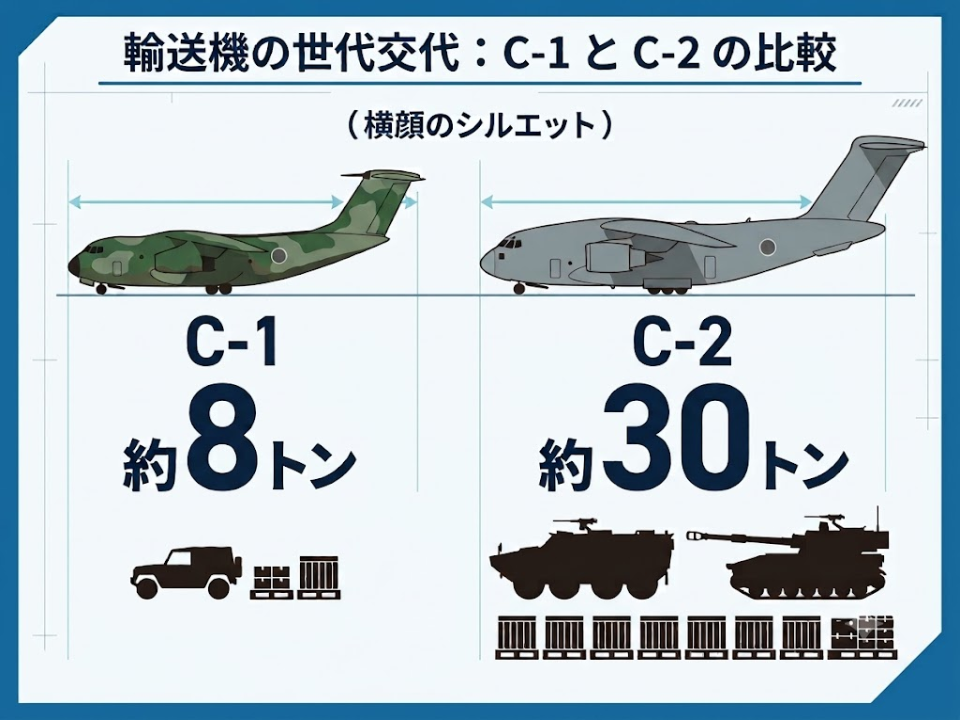
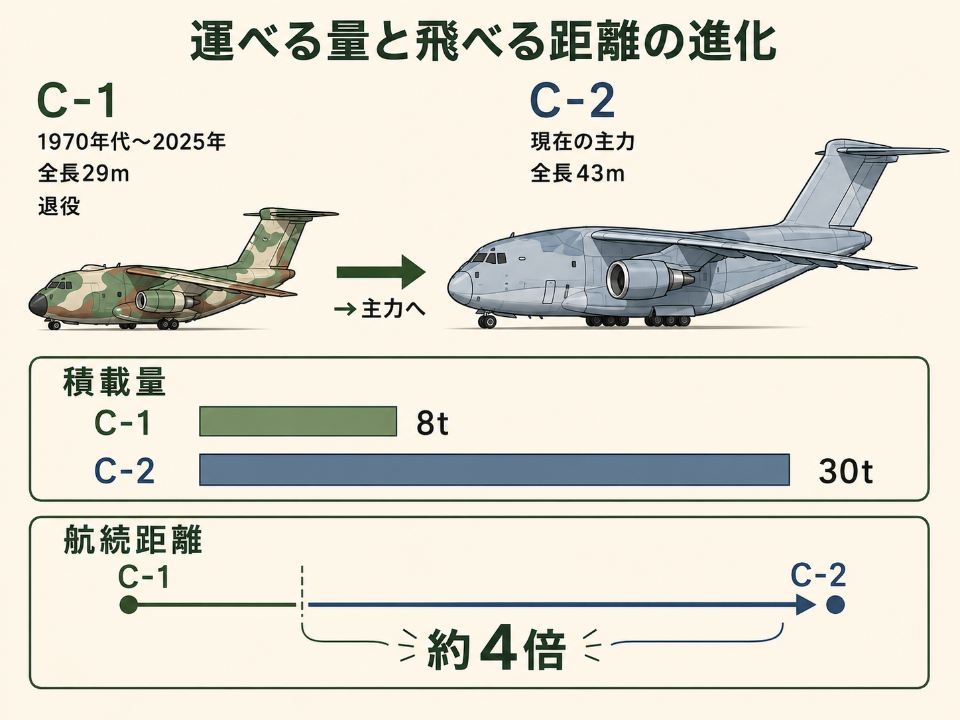
ps

diff --git a/staging/BarSophie_TEST/js/app_m.js b/staging/BarSophie_TEST/js/app_m.js
@@ -619,14 +619,28 @@ function _showMusicSubmenu() {
                     <img src="./sophie_face.png" style="width:20px;height:20px;border-radius:50%;object-fit:cover;">
                     🎵 DJソフィー／音楽リクエスト
                 </div>
-                <div style="padding:10px; display:flex; flex-direction:column; gap:8px;">
-                    <button class="act-btn" id="ms-dj"
-                            style="background:#1a1a2e; border:1.5px solid #ff69b4; color:#ff69b4;">
-                        🎙️ DJソフィーの歌とお酒の物語
-                    </button>
-                    <button class="act-btn" id="ms-music" style="background:var(--green);">
-                        🎵 音楽リクエスト
-                    </button>
+                <div style="padding:10px; display:flex; flex-direction:column; gap:18px;">
+                    <div>
+                        <button class="act-btn" id="ms-dj"
+                                style="background:#1a1a2e; border:1.5px solid #ff69b4; color:#ff69b4;">
+                            🎙️ DJソフィーの歌とお酒の物語
+                        </button>
+                        <p style="margin:7px 4px 0; font-size:0.72rem; line-height:1.5;
+                                  text-align:center; color:#a8eaf4;">
+                            ソフィーがお話をしながら、YouTubeで歌をお届けします。<br>
+                            昭和の名曲にまつわる人生や時代のお話も。
+                        </p>
+                    </div>
+                    <div>
+                        <button class="act-btn" id="ms-music" style="background:var(--green);">
+                            🎵 音楽リクエスト
+                        </button>
+                        <p style="margin:7px 4px 0; font-size:0.72rem; line-height:1.5;
+                                  text-align:center; color:#ffcdd9;">
+                            昭和の名曲を中心に600曲以上を収録しています。<br>
+                            歌手別・ジャンル別でお好みの一曲をどうぞ。
+                        </p>
+                    </div>
                 </div>
             </div>`;
     }

diff --git a/staging/TAKERU/editor/public/app.js b/staging/TAKERU/editor/public/app.js
@@ -196,6 +196,18 @@ function applyEdit(){
 
 function cancelEdit(){ if(selectedIdx>=0) showCard(selectedIdx); }
 
+function copyCardText(){
+  if(selectedIdx<0) return;
+  const card=cardData[selectedIdx];
+  const text=`**カードコード**：【${card.id}】\n\n**カードタイトル**：【${card.title}】\n\n**解説文**： 【${card.body}】`;
+  navigator.clipboard.writeText(text).then(()=>{
+    const btn=document.querySelector('.btn-copy');
+    const orig=btn.textContent;
+    btn.textContent='✅ コピー済み';
+    setTimeout(()=>btn.textContent=orig,2000);
+  }).catch(()=>alert('コピーに失敗しました'));
+}
+
 // ===== 画像取り込み（960×720へ強制伸縮 → SVG合成 → PNG保存） =====
 let pendingImagePng=null, baseImage=null, svgInputTimer=null;
 

diff --git a/staging/TAKERU/editor/public/index.html b/staging/TAKERU/editor/public/index.html
@@ -62,6 +62,7 @@
       <textarea class="edit-input" id="editBody" oninput="updatePreview();countChars()"></textarea>
     </div>
     <div class="edit-actions">
+      <button class="btn-copy" onclick="copyCardText()" title="コード・タイトル・本文をコピー">📋 コピー</button>
       <button class="btn-cancel" onclick="cancelEdit()">キャンセル</button>
       <button class="btn-apply" onclick="applyEdit()">✓ 適用</button>
     </div>
@@ -75,6 +76,10 @@
       <canvas id="imgCanvas" width="960" height="720" style="display:none"></canvas>
       <div id="imgStage" style="display:none; margin-top:8px;">
         <img id="imgPreview" class="img-stage-preview">
+        <div class="edit-actions" style="margin-top:6px;">
+          <button class="btn-cancel" onclick="cancelImage()">取消</button>
+          <button class="btn-apply" id="btnSaveImg" onclick="saveImage()">💾 画像を保存</button>
+        </div>
         <div class="svg-overlay-block">
           <div class="edit-label">SVGオーバーレイ（空欄なら合成なし）</div>
           <textarea id="svgOverlayInput" class="edit-input svg-overlay-input"
@@ -83,10 +88,6 @@
           <div class="edit-actions" style="margin-top:4px;">
             <button class="btn-cancel" onclick="clearSvg()">クリア</button>
           </div>
-        </div>
-        <div class="edit-actions" style="margin-top:6px;">
-          <button class="btn-cancel" onclick="cancelImage()">取消</button>
-          <button class="btn-apply" id="btnSaveImg" onclick="saveImage()">💾 画像を保存</button>
         </div>
       </div>
     </div>

diff --git a/staging/TAKERU/editor/public/style.css b/staging/TAKERU/editor/public/style.css
@@ -73,6 +73,8 @@ textarea.edit-input { resize:vertical; min-height:460px; line-height:1.75; }
 .btn-apply { background:var(--accent); border:none; color:#000; padding:7px 20px; border-radius:4px; cursor:pointer; font-size:0.82rem; font-weight:700; }
 .btn-apply:hover { background:var(--accent2); }
 .btn-cancel { background:transparent; border:1px solid var(--border); color:var(--text2); padding:7px 14px; border-radius:4px; cursor:pointer; font-size:0.82rem; }
+.btn-copy { background:transparent; border:1px solid var(--text3); color:var(--text2); padding:7px 14px; border-radius:4px; cursor:pointer; font-size:0.82rem; margin-right:auto; }
+.btn-copy:hover { border-color:var(--accent2); color:var(--accent2); }
 
 /* 画像取り込み */
 .img-edit-block { border-top:1px solid var(--border); padding-top:12px; margin-top:4px; }